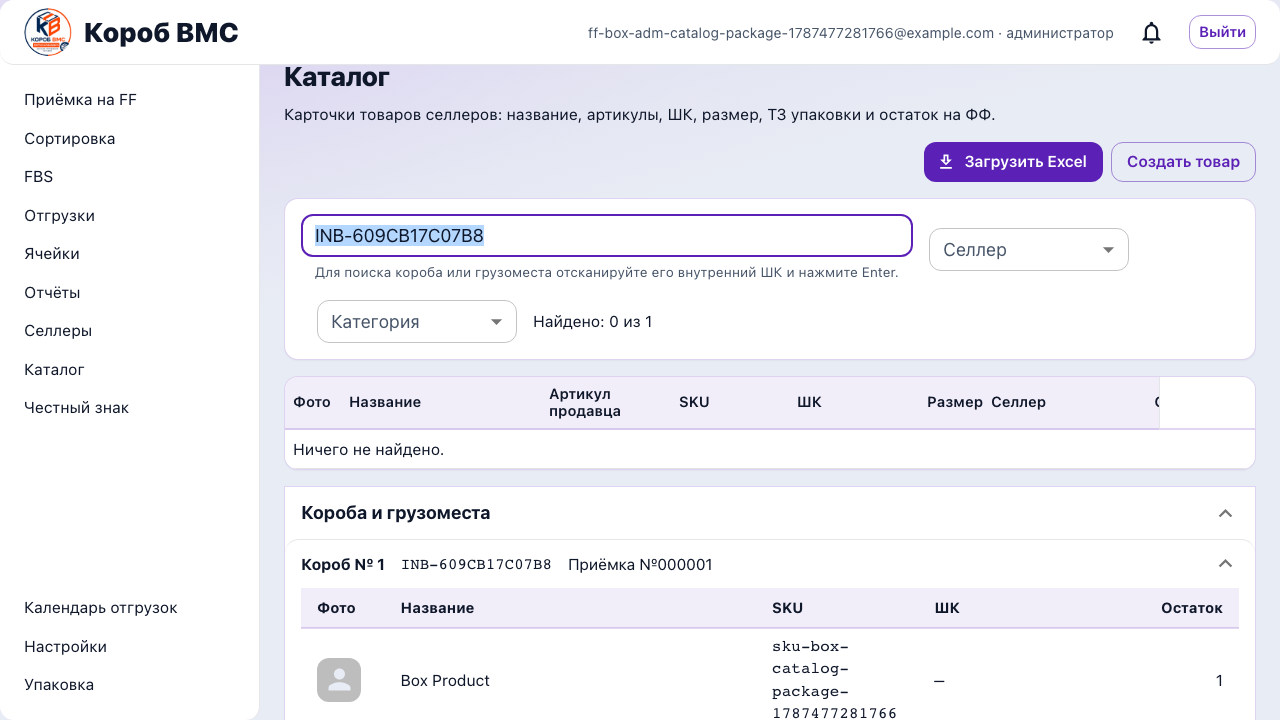
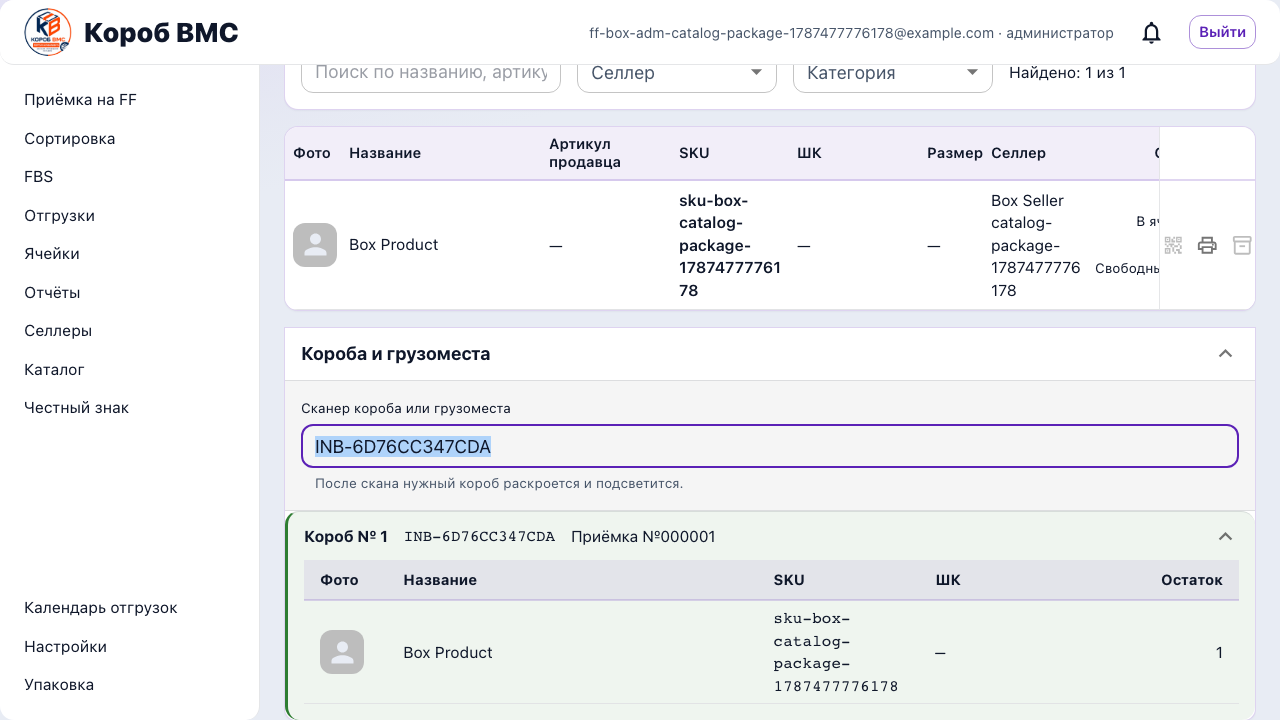
fix(catalog): keep box scanner inside package panel

diff --git a/frontend/src/screens/v2/FfCatalogInboundPackages.tsx b/frontend/src/screens/v2/FfCatalogInboundPackages.tsx
@@ -14,9 +14,10 @@ import {
   TableContainer,
   TableHead,
   TableRow,
+  TextField,
   Typography,
 } from '@mui/material'
-import { forwardRef, useCallback, useImperativeHandle, useMemo, useRef, useState } from 'react'
+import { useCallback, useMemo, useRef, useState } from 'react'
 import { apiUrl } from '../../api'
 import { ProductPhotoThumb } from '../../components/ProductPhotoThumb'
 
@@ -49,10 +50,6 @@ export type CatalogInboundPackageProduct = {
   wb_barcodes: string[]
 }
 
-export type CatalogInboundPackagesHandle = {
-  lookup: (barcode: string) => Promise<boolean | null>
-}
-
 type Props = {
   token: string
   authHeaders: (token: string) => Record<string, string>
@@ -83,8 +80,7 @@ function intakeLabel(item: InboundPackage): string {
   return `Приёмка ${number.includes('№') ? number : `№ ${number}`}`
 }
 
-export const FfCatalogInboundPackages = forwardRef<CatalogInboundPackagesHandle, Props>(
-  function FfCatalogInboundPackages({ token, authHeaders, products }, ref) {
+export function FfCatalogInboundPackages({ token, authHeaders, products }: Props) {
     const [sectionOpen, setSectionOpen] = useState(false)
     const [listLoading, setListLoading] = useState(false)
     const [listLoaded, setListLoaded] = useState(false)
@@ -92,7 +88,11 @@ export const FfCatalogInboundPackages = forwardRef<CatalogInboundPackagesHandle,
     const [listedPackages, setListedPackages] = useState<InboundPackage[]>([])
     const [addressedPackage, setAddressedPackage] = useState<InboundPackage | null>(null)
     const [openPackageId, setOpenPackageId] = useState<string | null>(null)
+    const [highlightedPackageId, setHighlightedPackageId] = useState<string | null>(null)
+    const [scanValue, setScanValue] = useState('')
+    const [scanError, setScanError] = useState(false)
     const requestSequence = useRef(0)
+    const scanInputRef = useRef<HTMLInputElement>(null)
 
     const productsById = useMemo(() => new Map(products.map((product) => [product.id, product])), [products])
 
@@ -126,21 +126,25 @@ export const FfCatalogInboundPackages = forwardRef<CatalogInboundPackagesHandle,
       }
     }, [authHeaders, token])
 
-    const lookup = useCallback(async (barcode: string): Promise<boolean | null> => {
+    const lookup = useCallback(async (barcode: string): Promise<void> => {
       const sequence = requestSequence.current + 1
       requestSequence.current = sequence
-      setAddressedPackage(null)
+      setScanError(false)
       try {
         const response = await fetch(
           apiUrl(`/operations/inbound-packages/lookup?barcode=${encodeURIComponent(barcode)}`),
           { headers: { ...authHeaders(token) } },
         )
-        if (requestSequence.current !== sequence) return null
-        if (!response.ok) return false
+        if (requestSequence.current !== sequence) return
+        if (!response.ok) {
+          setScanError(true)
+          return
+        }
         const item = (await response.json()) as InboundPackage
-        if (requestSequence.current !== sequence) return null
+        if (requestSequence.current !== sequence) return
         setAddressedPackage(item)
         setOpenPackageId(item.id)
+        setHighlightedPackageId(item.id)
         setSectionOpen(true)
         window.setTimeout(() => {
           document.getElementById(`ff-catalog-inbound-package-${item.id}`)?.scrollIntoView({
@@ -148,13 +152,26 @@ export const FfCatalogInboundPackages = forwardRef<CatalogInboundPackagesHandle,
             block: 'nearest',
           })
         }, 0)
-        return true
       } catch {
-        return requestSequence.current === sequence ? false : null
+        if (requestSequence.current === sequence) setScanError(true)
+      } finally {
+        if (requestSequence.current === sequence) {
+          scanInputRef.current?.focus()
+          scanInputRef.current?.select()
+        }
       }
     }, [authHeaders, token])
 
-    useImperativeHandle(ref, () => ({ lookup }), [lookup])
+    const handleScanKeyDown = useCallback(
+      (event: React.KeyboardEvent<HTMLInputElement>) => {
+        if (event.key !== 'Enter') return
+        const barcode = scanValue.trim().toUpperCase()
+        if (!barcode) return
+        event.preventDefault()
+        void lookup(barcode)
+      },
+      [lookup, scanValue],
+    )
 
     const handleSectionChange = useCallback(
       (_: React.SyntheticEvent, expanded: boolean) => {
@@ -188,6 +205,31 @@ export const FfCatalogInboundPackages = forwardRef<CatalogInboundPackagesHandle,
           </Typography>
         </AccordionSummary>
         <AccordionDetails id="ff-catalog-inbound-packages-content" sx={{ p: 0 }}>
+          <Box sx={{ p: 2, bgcolor: 'action.hover', borderTop: '1px solid', borderBottom: '1px solid', borderColor: 'divider' }}>
+            <Typography variant="caption" color="text.secondary" sx={{ display: 'block', mb: 0.75 }}>
+              Сканер короба или грузоместа
+            </Typography>
+            <TextField
+              inputRef={scanInputRef}
+              fullWidth
+              size="small"
+              value={scanValue}
+              onChange={(event) => {
+                setScanValue(event.target.value)
+                setScanError(false)
+              }}
+              onKeyDown={handleScanKeyDown}
+              placeholder="Сканируйте внутренний ШК"
+              error={scanError}
+              helperText="После скана нужный короб раскроется и подсветится."
+              slotProps={{ htmlInput: { 'data-testid': 'ff-catalog-inbound-packages-scan' } }}
+            />
+            {scanError ? (
+              <Alert severity="error" sx={{ mt: 1 }} data-testid="ff-catalog-inbound-packages-lookup-error">
+                Короб или грузоместо не найдено
+              </Alert>
+            ) : null}
+          </Box>
           {listLoading ? (
             <Stack
               direction="row"
@@ -237,7 +279,14 @@ export const FfCatalogInboundPackages = forwardRef<CatalogInboundPackagesHandle,
                     elevation={0}
                     square
                     data-testid={`ff-catalog-inbound-package-${item.id}`}
-                    sx={{ '&::before': { display: 'none' }, borderTop: '1px solid', borderColor: 'divider' }}
+                    sx={{
+                      '&::before': { display: 'none' },
+                      borderTop: '1px solid',
+                      borderColor: 'divider',
+                      ...(highlightedPackageId === item.id
+                        ? { bgcolor: 'rgba(46, 125, 50, 0.08)', borderLeft: '3px solid', borderLeftColor: 'success.main' }
+                        : {}),
+                    }}
                   >
                     <AccordionSummary
                       expandIcon={<ExpandMoreIcon />}
@@ -330,5 +379,4 @@ export const FfCatalogInboundPackages = forwardRef<CatalogInboundPackagesHandle,
         </AccordionDetails>
       </Accordion>
     )
-  },
-)
+}

diff --git a/frontend/src/screens/v2/FfProductsCatalogScreen.tsx b/frontend/src/screens/v2/FfProductsCatalogScreen.tsx
@@ -48,10 +48,7 @@ import {
 } from '../../types/wbProductCatalog'
 import { FfManualProductCreateDialog } from '../ff/FfManualProductCreateDialog'
 import { FfProductTzImportDialog } from '../ff/FfProductTzImportDialog'
-import {
-  FfCatalogInboundPackages,
-  type CatalogInboundPackagesHandle,
-} from './FfCatalogInboundPackages'
+import { FfCatalogInboundPackages } from './FfCatalogInboundPackages'
 
 type SellerRow = { id: string; name: string }
 
@@ -217,9 +214,6 @@ export function FfProductsCatalogScreen({
   const [filterSearch, setFilterSearch] = useState('')
   const [filterSellerId, setFilterSellerId] = useState('')
   const [filterCategory, setFilterCategory] = useState('')
-  const [inboundPackageLookupError, setInboundPackageLookupError] = useState(false)
-  const catalogSearchRef = useRef<HTMLInputElement>(null)
-  const inboundPackagesRef = useRef<CatalogInboundPackagesHandle>(null)
 
   // ── FBS-пул: направления остатка (перенесено из SellerProductsStockScreen) ──
   const [directionProductId, setDirectionProductId] = useState<string | null>(null)
@@ -233,10 +227,11 @@ export function FfProductsCatalogScreen({
     setError(null)
     setBusy(true)
     try {
-      // Состав найденного по ШК короба не зависит от фильтра основной таблицы:
-      // товар из другого селлера тоже должен отобразиться внутри физического короба.
-      // Поэтому каталог загружается один раз, а фильтры применяются только к основной таблице.
-      const res = await fetch(apiUrl('/products/ff-catalog'), {
+      // seller_id можно передавать бэкенду только с роли фулфилмент-админа —
+      // для остальных ролей эндпоинт и так отдаёт каталог по всем селлерам,
+      // поэтому для них фильтрация по селлеру остаётся клиентской (см. filteredRows).
+      const qs = canManageCatalog && filterSellerId ? `?seller_id=${encodeURIComponent(filterSellerId)}` : ''
+      const res = await fetch(apiUrl(`/products/ff-catalog${qs}`), {
         headers: { ...authHeaders(token) },
       })
       if (!res.ok) {
@@ -248,7 +243,7 @@ export function FfProductsCatalogScreen({
     } finally {
       setBusy(false)
     }
-  }, [authHeaders, token])
+  }, [authHeaders, token, canManageCatalog, filterSellerId])
 
   useEffect(() => {
     void load()
@@ -457,23 +452,6 @@ export function FfProductsCatalogScreen({
           (!filterCategory || row.wb_subject_name === filterCategory),
       ),
     [rows, filterSearch, filterSellerId, filterCategory],
-  )
-
-  const handleCatalogSearchKeyDown = useCallback(
-    (event: React.KeyboardEvent<HTMLInputElement>) => {
-      if (event.key !== 'Enter') return
-      const barcode = filterSearch.trim().toUpperCase()
-      if (!/^(INB|ICG)-.+$/.test(barcode)) return
-      event.preventDefault()
-      setInboundPackageLookupError(false)
-      void inboundPackagesRef.current?.lookup(barcode).then((found) => {
-        if (found === null) return
-        if (found === false) setInboundPackageLookupError(true)
-        catalogSearchRef.current?.focus()
-        catalogSearchRef.current?.select()
-      })
-    },
-    [filterSearch],
   )
 
   const markDirectionBusy = useCallback((productId: string, pending: boolean) => {
@@ -731,16 +709,10 @@ export function FfProductsCatalogScreen({
             sx={{ alignItems: { sm: 'center' }, flexWrap: 'wrap', rowGap: 2 }}
           >
             <TextField
-              inputRef={catalogSearchRef}
               size="small"
               placeholder="Поиск по названию, артикулу, SKU или ШК"
               value={filterSearch}
-              onChange={(e) => {
-                setFilterSearch(e.target.value)
-                setInboundPackageLookupError(false)
-              }}
-              onKeyDown={handleCatalogSearchKeyDown}
-              helperText="Для поиска короба или грузоместа отсканируйте его внутренний ШК и нажмите Enter."
+              onChange={(e) => setFilterSearch(e.target.value)}
               slotProps={{ htmlInput: { 'data-testid': 'ff-catalog-search' } }}
               sx={{ minWidth: 260 }}
             />
@@ -783,12 +755,6 @@ export function FfProductsCatalogScreen({
             </Typography>
           </Stack>
         </Paper>
-
-        {inboundPackageLookupError ? (
-          <Alert severity="error" sx={{ mb: 2 }} data-testid="ff-catalog-inbound-packages-lookup-error">
-            Короб или грузоместо не найдено
-          </Alert>
-        ) : null}
 
         <TableContainer
           component={Paper}
@@ -1091,7 +1057,6 @@ export function FfProductsCatalogScreen({
         </TableContainer>
 
         <FfCatalogInboundPackages
-          ref={inboundPackagesRef}
           token={token}
           authHeaders={authHeaders}
           products={catalog}

diff --git a/frontend/tests-e2e/catalog-box-lookup.spec.ts b/frontend/tests-e2e/catalog-box-lookup.spec.ts
@@ -44,7 +44,10 @@ async function createBox(
 }
 
 async function scanCatalogPackage(page: Page, barcode: string): Promise<void> {
-  const search = page.getByTestId('ff-catalog-search')
+  const search = page.getByTestId('ff-catalog-inbound-packages-scan')
+  if (!(await search.isVisible().catch(() => false))) {
+    await page.getByTestId('ff-catalog-inbound-packages-toggle').click()
+  }
   await search.fill(barcode)
   await Promise.all([
     page.waitForResponse(
@@ -82,12 +85,14 @@ test('scan opens the received box and shows its current contents', async ({ page
 
   await page.goto('/app/ff/products')
   await expect(page.getByTestId('ff-products-list')).toBeVisible()
+  await expect(page.getByTestId('ff-products-list')).toContainText(seed.sku)
   await scanCatalogPackage(page, box.barcode)
 
   const packageItem = packageByBarcode(page, box.barcode)
   await expect(packageItem).toBeVisible()
   await expect(packageItem).toContainText('Короб № 1')
   await expect(packageItem).toContainText(seed.sku)
+  await expect(page.getByTestId('ff-products-list')).toContainText(seed.sku)
   await expect(
     packageItem.locator('[data-testid^="ff-catalog-inbound-composition-"] tbody tr').filter({
       hasText: seed.sku,
@@ -132,7 +137,8 @@ test('a late failed scan cannot replace the next successful box', async ({ page 
   })
 
   await page.goto('/app/ff/products')
-  const search = page.getByTestId('ff-catalog-search')
+  await page.getByTestId('ff-catalog-inbound-packages-toggle').click()
+  const search = page.getByTestId('ff-catalog-inbound-packages-scan')
   await search.fill(firstBox.barcode)
   const firstScan = search.press('Enter')
   await firstLookupStarted

diff --git a/docs/evidence/catalog-box-lookup-20260823/README.md b/docs/evidence/catalog-box-lookup-20260823/README.md
@@ -6,7 +6,7 @@
 - `npm run build` — успешно.
 - ESLint изменённых файлов — успешно.
 - `npx playwright test tests-e2e/catalog-box-lookup.spec.ts --project=chromium` — 2 passed.
-- Основной браузерный сценарий: внутренний ШК короба введён в поиск каталога, нужный короб автоматически раскрыт, товар и текущий остаток показаны.
+- Основной браузерный сценарий: основной каталог остался неизменным; в нижней плашке введён внутренний ШК короба, нужный короб автоматически раскрыт и подсвечен, товар и текущий остаток показаны.
 - Защита от гонки: запоздавшая ошибка предыдущего скана не заменяет результат следующего успешного скана.
 
 Скриншот живого Chromium: `catalog-box-open.png`.
